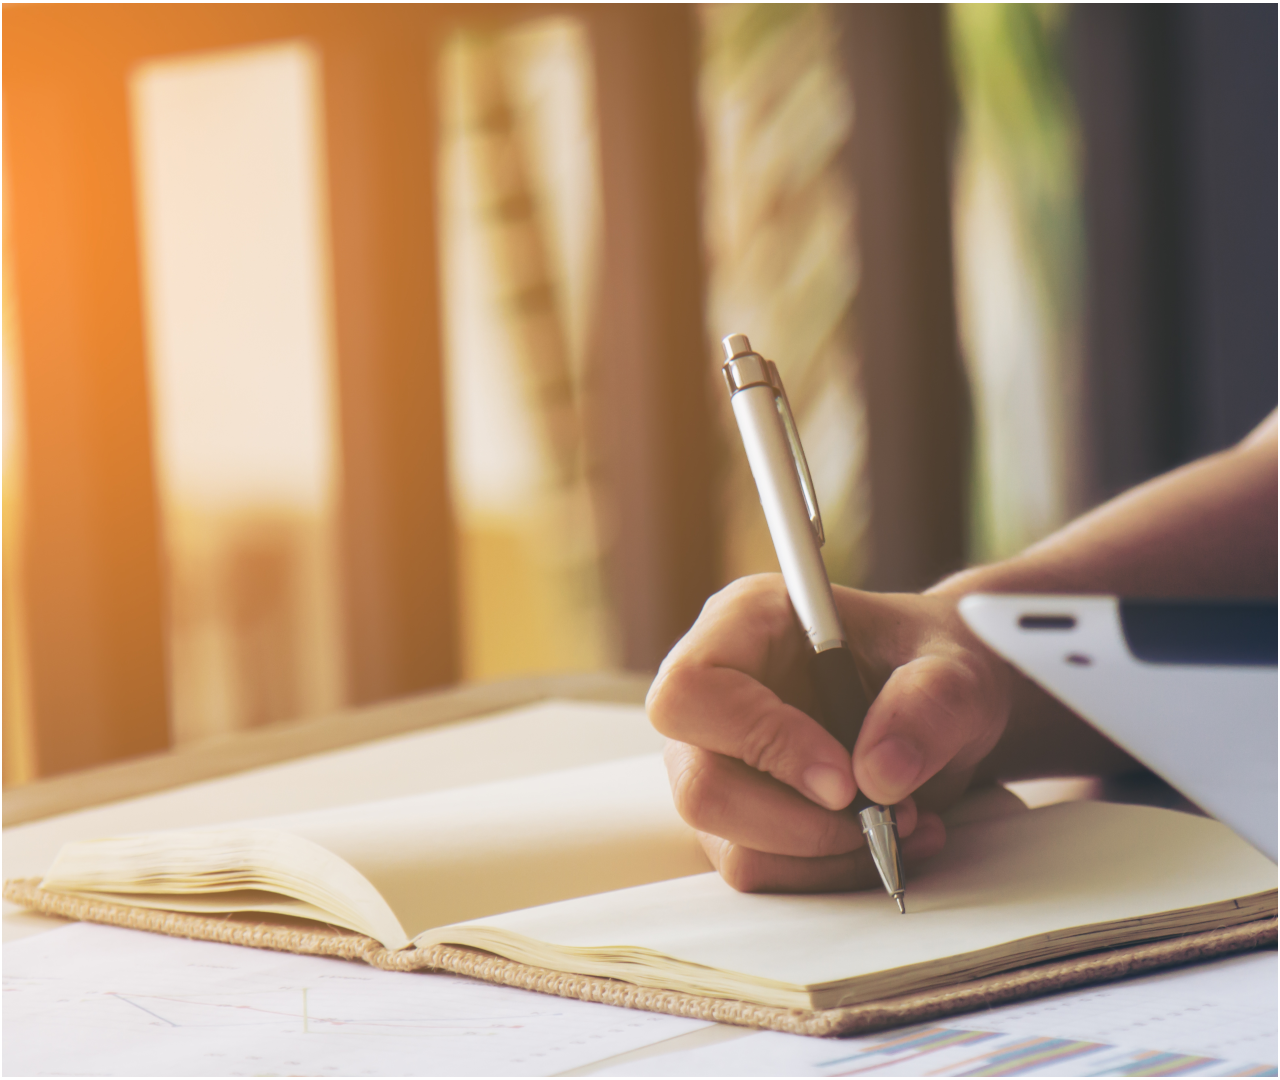
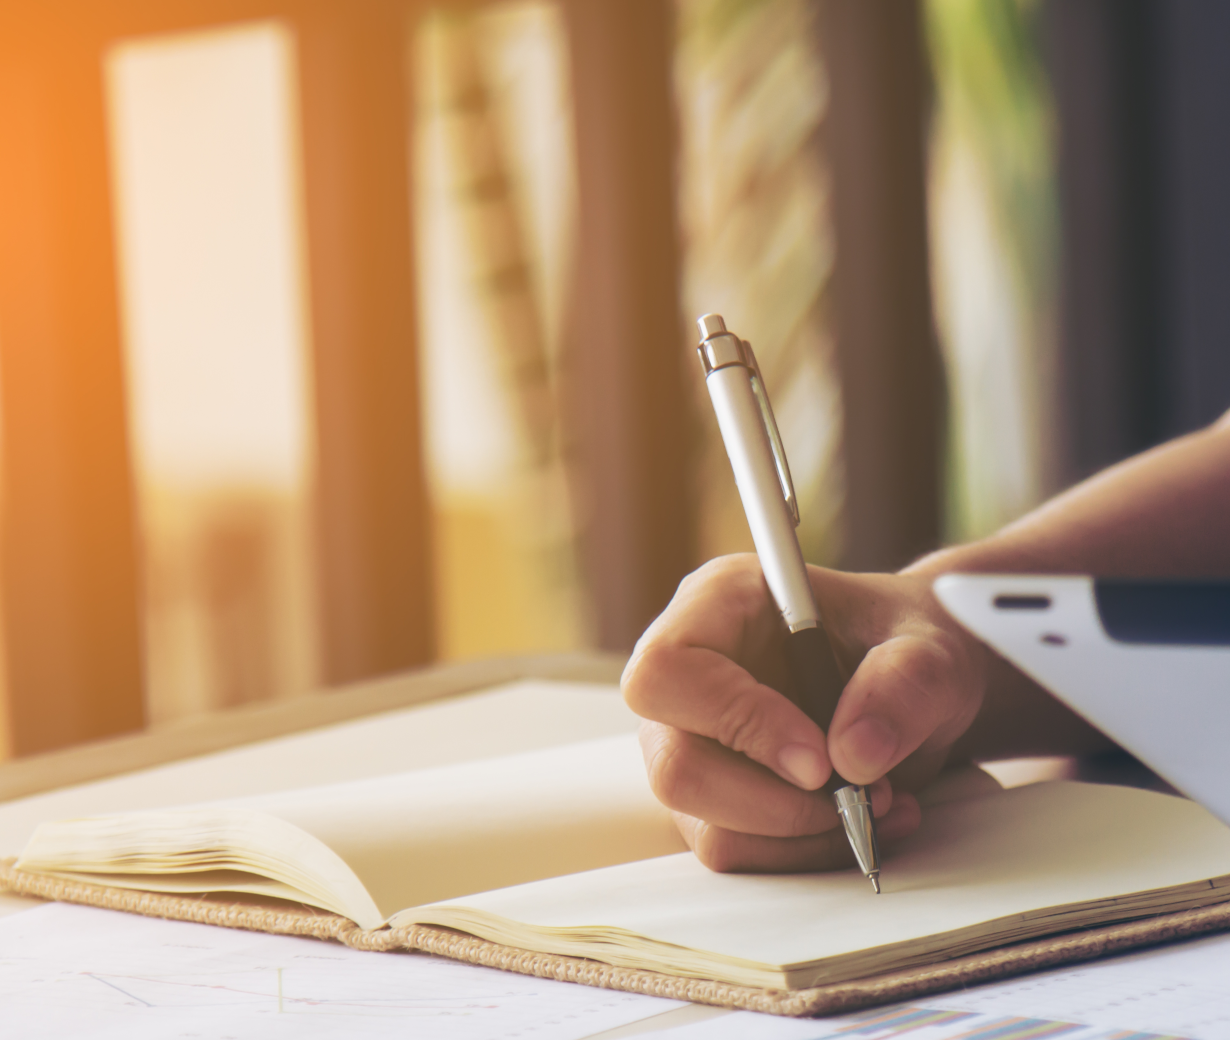
Consumindo a api, e terminei o cadastro

diff --git a/src/pages/cadastro/index.jsx b/src/pages/cadastro/index.jsx
@@ -1,0 +1,81 @@
+import { useState } from "react"
+import { cadastroRequest } from "../../services/cadastro"
+import "./style.css"
+
+function Cadastro() {
+
+    const [username, setUsername] = useState("")
+    const [email, setEmail] = useState("")
+    const [senha, setSenha] = useState("")
+
+    async function fazerCadastro(e) {
+        e.preventDefault()
+
+        try {
+
+            const data = await cadastroRequest(
+                username,
+                email,
+                senha
+            )
+
+            console.log(data) // debug
+
+            alert("Usuário cadastrado com sucesso!")
+
+        } catch (error) {
+            console.log(error)
+            alert("Erro ao cadastrar usuário")
+        }
+    }
+
+    return (
+        <div className="cadastro-page">
+
+            <section>
+                <h1>Todo List</h1>
+
+                <form onSubmit={fazerCadastro}>
+
+                    <h2>Cadastro</h2>
+
+                    <input
+                        type="text"
+                        placeholder="Username"
+                        value={username}
+                        onChange={(e) => setUsername(e.target.value)}
+                    /><br />
+
+                    <input
+                        type="email"
+                        placeholder="E-mail"
+                        value={email}
+                        onChange={(e) => setEmail(e.target.value)}
+                    /><br />
+
+                    <input
+                        type="password"
+                        placeholder="Senha"
+                        value={senha}
+                        onChange={(e) => setSenha(e.target.value)}
+                    /><br />
+
+                    <button
+                        type="submit"
+                        id="btn_enviar"
+                    >
+                        Cadastrar
+                    </button>
+
+                    <a href="/" id="link_conta">
+                        Já possui conta? Clique aqui
+                    </a>
+
+                </form>
+            </section>
+
+        </div>
+    )
+}
+
+export default Cadastro

diff --git a/src/pages/cadastro/style.css b/src/pages/cadastro/style.css
@@ -1,0 +1,65 @@
+.cadastro-page {
+    background-image: url("../../assets/background_cadastro.png");
+    background-repeat: no-repeat;
+    background-size: cover;
+    background-position: center;
+
+}
+
+.cadastro-page section {
+    background-color: #F2F2F2;
+    width: 50%;
+    min-height: 100vh;
+}
+
+.cadastro-page h1 {
+    font-size: 64px;
+    text-align: center;
+    padding-top: 20px;
+    margin-bottom: 20px;
+}
+
+.cadastro-page h2 {
+    color: white;
+    font-size: 36px;
+    padding: 12px;
+    text-align: left;
+    width: 80%;
+}
+
+.cadastro-page form {
+    background-color: #0D6973;
+    margin: 60px auto auto auto;
+    padding: 5px;
+    border-radius: 10px;
+    height: 350px;
+    max-width: 350px;
+    width: 100%;
+    display: flex;
+    flex-direction: column;
+    align-items: center;
+    box-shadow: 2px 2px 6px rgba(0, 0, 0, 0.623);
+}
+
+.cadastro-page input {
+    width: 80%;
+    height: 46px;
+    margin: 5px;
+    padding: 7px;
+    border-radius: 5px;
+    border-style: none;
+    background: linear-gradient(to bottom, rgb(218, 218, 218) 70%, rgb(128, 128, 128));
+    box-shadow: 1px 1px 1px rgba(0, 0, 0, 0.397);
+}
+
+.cadastro-page #btn_enviar {
+    margin-top: 30px;
+    height: 60px;
+    width: 120px;
+}
+
+.cadastro-page #link_conta {
+    color: white;
+    margin-top: 20px;
+    margin-bottom: 5px;
+}

diff --git a/src/services/cadastro.js b/src/services/cadastro.js
@@ -1,0 +1,24 @@
+const API_URL = "http://localhost:8000/api/register/";
+
+// Função de cadastro
+export async function cadastroRequest(username, email, password) {
+    const response = await fetch(`${API_URL}`, {
+        method: "POST",
+
+        headers: {
+            "Content-Type": "application/json"
+        },
+
+        body: JSON.stringify({
+            username,
+            email,
+            password
+        })
+    });
+
+    if (!response.ok) {
+        throw new Error("Não foi possível cadastrar o usuário");
+    }
+
+    return response.json();
+}

diff --git a/src/services/login.js b/src/services/login.js
@@ -1,0 +1,23 @@
+const API_URL = "http://localhost:8000/api/login/"
+
+//Função de login
+export async function loginRequest(username, password) {
+    const response = await fetch(`${API_URL}`, {
+        method: "POST",
+
+        headers: {
+            "Content-Type": "application/json"
+        },
+
+        body: JSON.stringify({
+            username,
+            password
+        })
+    })
+
+    if (!response.ok) {
+        throw new Error("Não foi possivel fazer o login")
+    }
+
+    return response.json()
+}

diff --git a/src/App.jsx b/src/App.jsx
@@ -3,6 +3,7 @@ import './App.css';
 
 import Home from "./pages/home";
 import Login from "./pages/login";
+import Cadastro from "./pages/cadastro";
 
 function App() {
   return (
@@ -10,6 +11,7 @@ function App() {
       <Routes>
         <Route path="/" element={<Home />} />
         <Route path="/login" element={<Login />} />
+        <Route path="/cadastro" element={<Cadastro />} />
       </Routes>
     </>
   )

diff --git a/src/pages/login/index.jsx b/src/pages/login/index.jsx
@@ -1,5 +1,5 @@
 import { useState } from "react"
-import { loginRequest } from "../../services/api"
+import { loginRequest } from "../../services/login"
 import "./style.css"
 
 function Login() {
